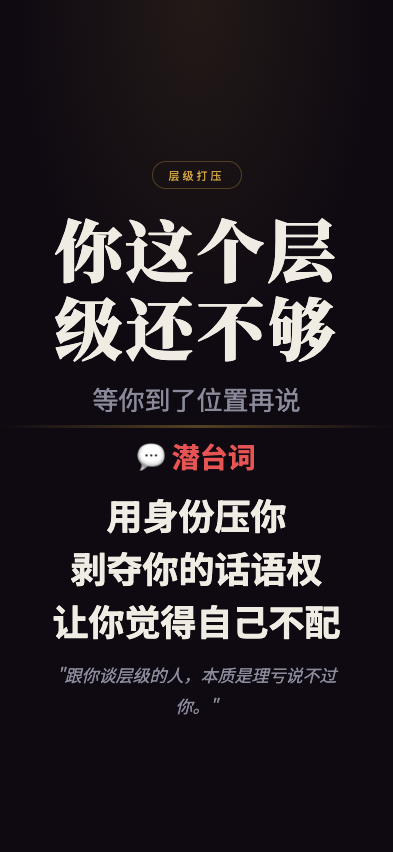
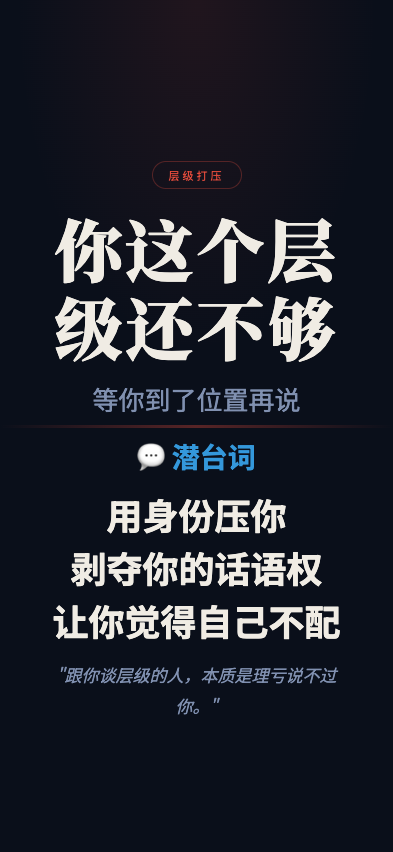
feat: 职场生存法则 screenshot - nizhegecengjihaibugou

Changed region(s): [[0.4275, 0.4883, 0.6718, 0.5493], [0.4275, 0.1831, 0.5802, 0.2136]]

diff --git a/wuliao-tools/tools/biz-speak/scenes/nizhegecengjihaibugou.html b/wuliao-tools/tools/biz-speak/scenes/nizhegecengjihaibugou.html
@@ -7,11 +7,11 @@
 <link href="https://fonts.googleapis.com/css2?family=Noto+Serif+SC:wght@400;700;900&family=Noto+Sans+SC:wght@300;400;700&display=swap" rel="stylesheet">
 <style>
   :root {
-    --bg: #0f0a12;
+    --bg: #0a0f1a;
     --text: #f0ece4;
-    --text-dim: #8a8a9a;
-    --gold: #d4a843;
-    --red: #e85454;
+    --text-dim: #8090b0;
+    --gold: #e74c3c;
+    --red: #3498db;
   }
   * { margin:0; padding:0; box-sizing:border-box; }
   html, body { width:100%; height:100%; overflow:hidden; }
@@ -24,11 +24,11 @@
   }
   body::before {
     content:''; position:absolute; top:0; left:0; right:0; height:45%;
-    background:radial-gradient(ellipse at 50% 0%, rgba(212,168,67,0.1) 0%, transparent 65%);
+    background:radial-gradient(ellipse at 50% 0%, rgba(231,76,60,0.1) 0%, transparent 65%);
     pointer-events:none; z-index:0;
   }
   .top { flex:1; display:flex; flex-direction:column; align-items:center; justify-content:flex-end; padding:4px 28px 8px; position:relative; z-index:1; }
-  .tag { font-size:11px; letter-spacing:3px; color:var(--gold); border:1px solid rgba(212,168,67,0.3); padding:5px 16px; border-radius:50px; margin-bottom:20px; }
+  .tag { font-size:11px; letter-spacing:3px; color:var(--gold); border:1px solid rgba(231,76,60,0.3); padding:5px 16px; border-radius:50px; margin-bottom:20px; }
   .main-title { font-family:'Noto Serif SC'; font-size:68px; font-weight:900; text-align:center; line-height:1.15; letter-spacing:3px; min-width:0; overflow-wrap:break-word; max-width:92%; }
   .sub-title { font-size:26px; color:var(--text-dim); text-align:center; margin-top:14px; }
   .divider { width:100%; height:3px; background:linear-gradient(90deg,transparent,var(--gold),transparent); opacity:0.35; flex-shrink:0; position:relative; z-index:1; }
@@ -39,7 +39,7 @@
   .quote { font-size:17px; color:var(--text-dim); font-style:italic; text-align:center; line-height:1.8; margin-top:18px; padding:0 12px; }
 </style>
 </head>
-<body>
+<body class="theme-5">
   <div class="top">
     <div class="tag">层级打压</div>
     <div class="main-title">你这个层级还不够</div>
@@ -49,9 +49,7 @@
   <div class="bottom">
     <div class="truth-label">💬 潜台词</div>
     <div class="truth-lines">
-      <div class="truth-line">用身份压你</div>
-      <div class="truth-line">剥夺你的话语权</div>
-      <div class="truth-line">让你觉得自己不配</div>
+      <div class="truth-line">用身份压你</div><div class="truth-line">剥夺你的话语权</div><div class="truth-line">让你觉得自己不配</div>
     </div>
     <div class="quote">"跟你谈层级的人，本质是理亏说不过你。"</div>
   </div>
